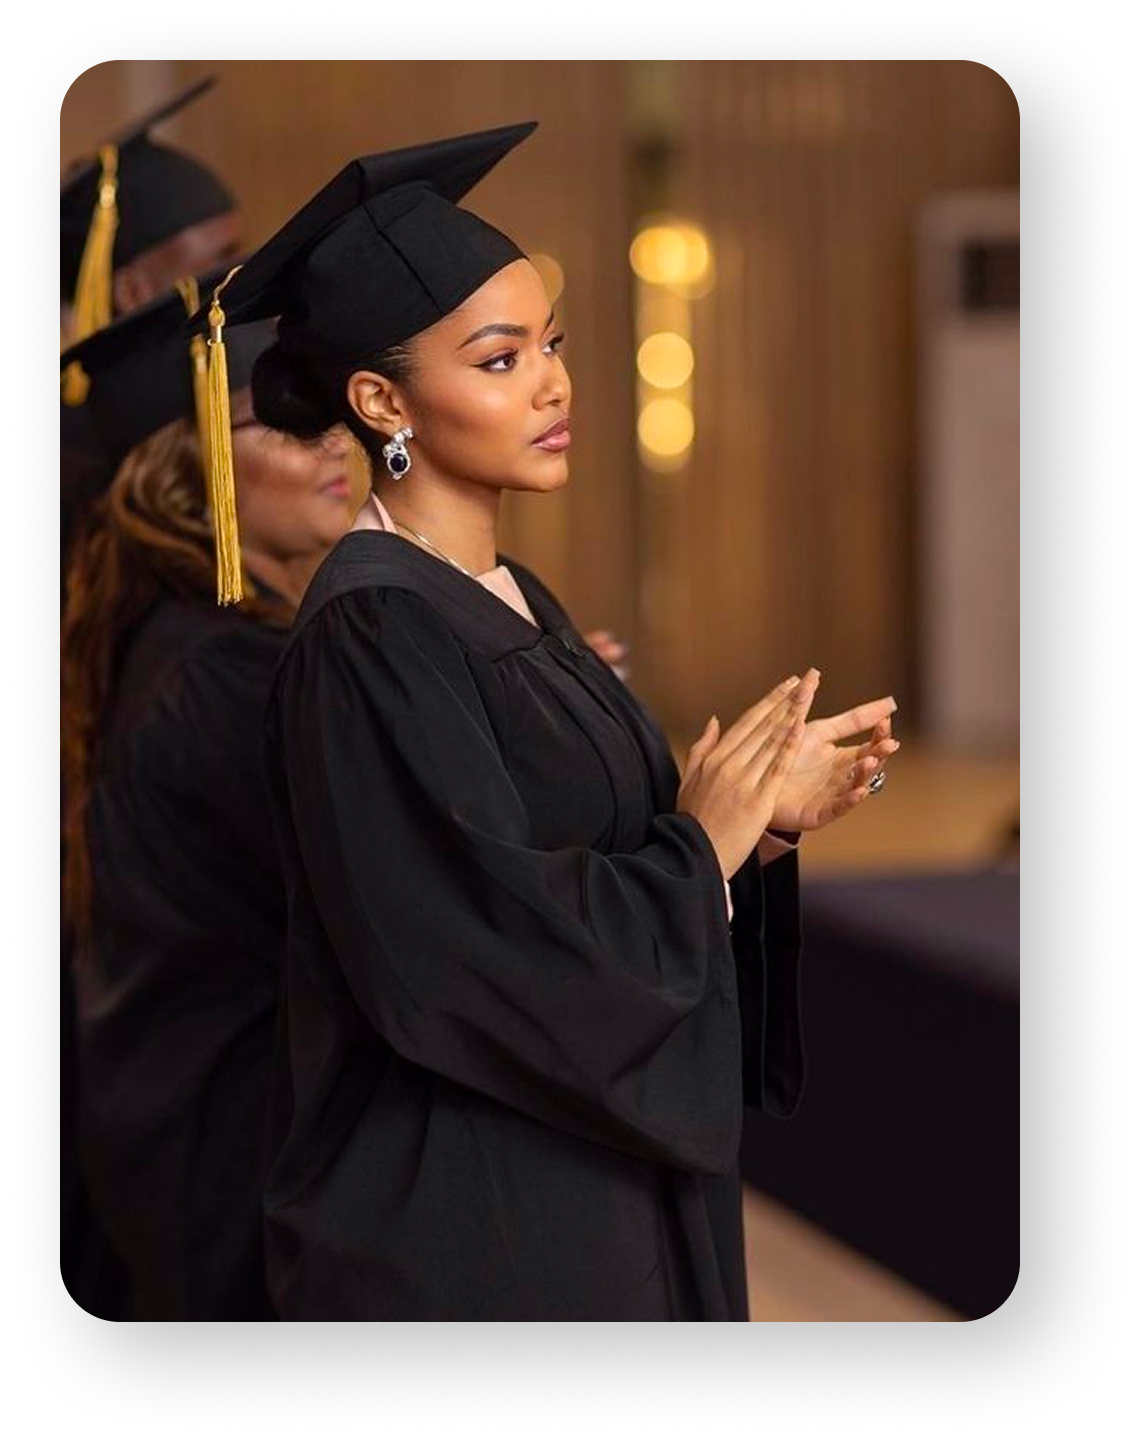
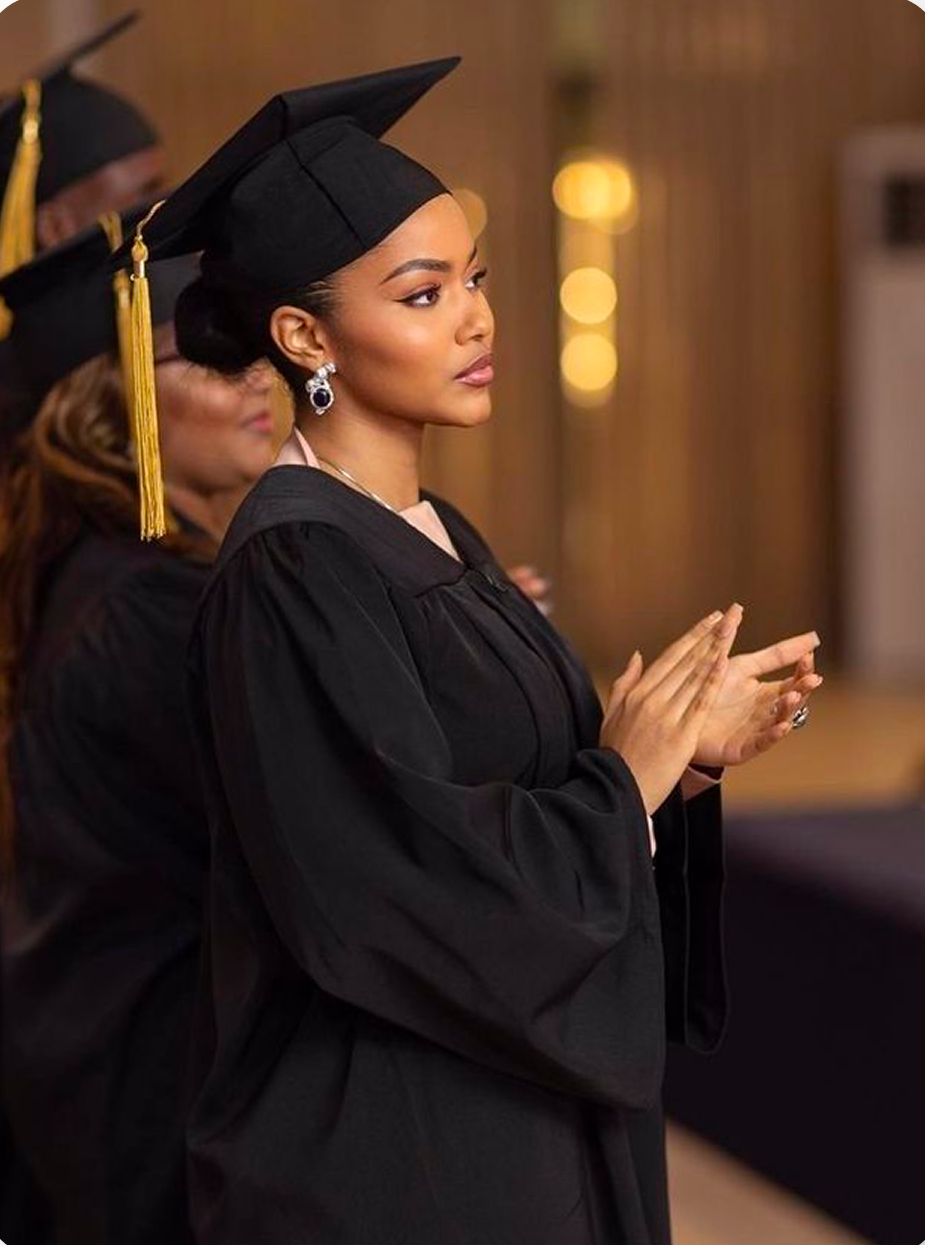
change some new updates

diff --git a/index.html b/index.html
@@ -539,7 +539,7 @@
                 <h2 class="text-center less-heading">Tailor your CV instantly</h2>
                 <ul class="tailored-ul">
                     <li class="wow animate__ animate__fadeInLeft animated" data-wow-duration="1.2s" style="visibility: visible; animation-duration: 1.2s; animation-name: fadeInLeft;">
-                        <p class="d-sm-block d-none" style="opacity: 0;">1</p>
+                        <p class="" style="opacity: 0;">1</p>
                         <h3>Tailored</h3>
                         <p>To Each Application</p>
                     </li>
@@ -551,7 +551,7 @@
                         style="visibility: visible; animation-duration: 1.4s; animation-delay: 0.2s; animation-name: fadeInUp;"
                     >
                         <p>Save</p>
-                        <h3>3-5h</h3>
+                        <h3 style="white-space: nowrap;">3-5h</h3>
                         <p>Daily</p>
                     </li>
                     <!-- 3 -->
@@ -561,7 +561,7 @@
                         data-wow-duration="1.2s"
                         style="visibility: visible; animation-duration: 1.2s; animation-delay: 0.4s; animation-name: fadeInRight;"
                     >
-                        <p class="d-sm-block d-none" style="opacity: 0;">1</p>
+                        <p class="" style="opacity: 0;">1</p>
                         <h3>Memzo</h3>
                         <p>Intelligence</p>
                     </li>
@@ -572,10 +572,10 @@
             </div>
         </section>
         <section class="serve-section overflow-hidden">
-            <div class="container">
-                <h2 class=" text-center less-heading">Who We Serve</h2>
+            <div class="container-xl">
+                <h2 class=" text-center less-heading pb-sm-5 pb-2">Who We Serve</h2>
            
-            <div class="row mt-lg-5 mt-3 g-4">
+            <div class="row mt-lg-5 mt-3 g-5">
                 <div class="col-lg-4 col-md-6">
                     <div class="serve-box  pb-4 text-center wow animate__ animate__fadeInLeft animated" data-wow-duration="1.2s" style="visibility: visible; animation-duration: 1.2s; animation-name: fadeInLeft;">
                         <img src="assets/images/serve1.png" alt="individuals-icon" class="img-fluid individuals-icon">
@@ -588,9 +588,9 @@
                   <div class="col-lg-4 col-md-6">
                     <div class="serve-box  pb-4 text-center wow animate__ animate__fadeInUp animated" data-wow-delay="0.2s" data-wow-duration="1.4s" style="visibility: visible; animation-duration: 1.4s; animation-delay: 0.2s; animation-name: fadeInUp;">
                         <img src="assets/images/serve2.png" alt="individuals-icon" class="img-fluid individuals-icon">
-                        <button class="job-button">Universities</button>
-                        <button class="job-button mt-4">Career Services</button>
-                        <button class="job-button mt-4">Job Centres</button>
+                        <button class="job-button">UNIVERSITIES</button>
+                        <button class="job-button mt-4">CAREER SERVICES </button>
+                        <button class="job-button mt-4">JOB CENTER</button>
                     </div>
                 </div>
                 <!-- 3 -->
@@ -598,8 +598,8 @@
                     <div class="serve-box  pb-4 text-center wow animate__ animate__fadeInRight animated" data-wow-delay="0.4s" data-wow-duration="1.2s" style="visibility: visible; animation-duration: 1.2s; animation-delay: 0.4s; animation-name: fadeInRight;">
                         <img src="assets/images/serve3.png" alt="individuals-icon" class="img-fluid individuals-icon">
                         <button class="job-button">HR DEPARTMENTS</button>
-                        <button class="job-button mt-4">Recruitment Consultants</button>
-                        <button class="job-button mt-4">Talent Aquisition Teams</button>
+                        <button class="job-button mt-4">RECRUITMENT CONSULTANTS</button>
+                        <button class="job-button mt-4">TALENT AQUISITION TEAMS </button>
                     </div>
                 </div>
             </div>

diff --git a/assets/css/style.css b/assets/css/style.css
@@ -53,6 +53,10 @@ body {
     max-width: 1280px;
     padding: 0 15px;
 }
+.container-xl {
+    max-width: 1480px;
+    padding: 0 15px;
+}
 
 .fw-300 {
     font-weight: 300;
@@ -452,14 +456,14 @@ footer a:hover {
     font-weight: 500;
 }
 .tailored-ul {
-    padding: 80px 0;
+    padding: 80px 0 150px 0;
     width: 100%;
     max-width: 1060px;
     margin: 0 auto;
     display: flex;
     justify-content: space-between;
     gap: 40px;
-    flex-wrap: wrap;
+    /* flex-wrap: wrap; */
 }
 .tailored-ul li {
     border-left: 1px solid rgba(0, 0, 0, 0.25);
@@ -513,11 +517,10 @@ padding: 10px 26px;
 border: unset;
 } */
 .serve-section .job-button {
-    width: 100%;
-    max-width: 399px;
+   width: 100%;
+    max-width: 360px;
     color: #000;
-   
-    font-size: 19px;
+    font-size: 18px;
     font-style: normal;
     font-weight: 500;
     line-height: normal;
@@ -526,7 +529,7 @@ border: unset;
     background: #FFF;
     box-shadow: 5px 5px 25px 0 rgba(0, 0, 0, 0.25);
     backdrop-filter: blur(10px);
-    padding: 10px 26px;
+    padding: 10px 10px;
     border: none;
     cursor: pointer;
     transition: all 0.3s ease;
@@ -635,6 +638,10 @@ font-weight: 400;
 line-height: 28px; /* 155.556% */
 letter-spacing: 0.9px;
 }
+.individuals-icon{
+    border-radius: 25px;
+    margin-bottom: 50px;
+}
 
 @media screen and (max-width: 768px) {
     .main-nav #nav-toggler {
@@ -687,7 +694,14 @@ letter-spacing: 0.9px;
     padding-top: 0px;
 }
 }
-
+@media screen and (max-width: 550px) {
+.tailored-ul{
+    gap: 0;
+}
+.tailored-ul li h3 {
+    font-size: 30px;
+}
+}
 @media screen and (max-width: 450px) {
     .font-sm-14 {
         font-size: 14px;
@@ -733,15 +747,17 @@ letter-spacing: 0.9px;
     .header-sec-img {
     margin-bottom: 0px;
 }
+
 .tailored-ul li h3 {
-    font-size: 35px;    padding-top: 8px;}
+    font-size: 20px;    padding-top: 8px;}
     .tailored-ul li p {
-    font-size: 20px;
+    font-size: 16px;
+    line-height: normal;
     padding-top: 10px;
 }
 .tailored-ul li {
-    padding: 15px 31px 36px 20px;
-}
+        padding: 0px 13px 14px 17px;
+    }
 .readt-for-section,
 .footer-section {
     padding-top: 50px;
@@ -768,6 +784,17 @@ letter-spacing: 0.9px;
 
     .handle-hr {
         margin: 30px 0;
+    }
+}
+@media screen and (max-width: 375px) {
+        .tailored-ul li {
+        padding: 0px 5px 7px 6px;
+    }
+    .tailored-ul li h3 {
+        font-size: 18px;
+    }
+        .tailored-ul li p {
+        font-size: 14px;
     }
 }
 
